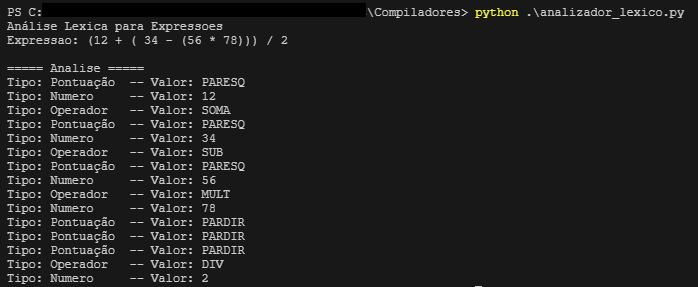
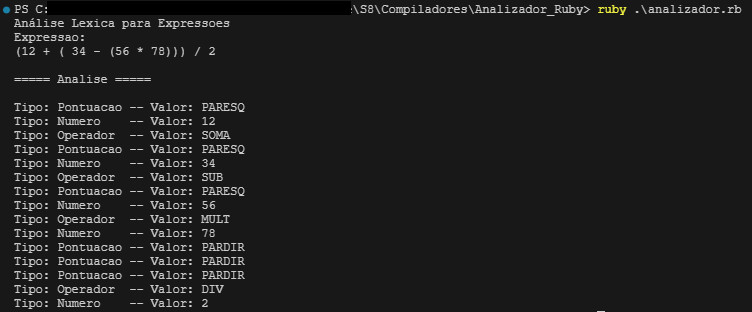
Correção de questão, linguagem Python -> Ruby

Changed region(s): [[0.0, 0.223, 0.361, 1.0], [0.0, 0.0, 0.4212, 0.1951], [0.4513, 0.0, 0.9928, 0.0557]]

diff --git a/analizador.rb b/analizador.rb
@@ -1,0 +1,176 @@
+# Analisador lexico para linguagem de expressoes aritmeticas
+
+# Crétitos autor original
+# Andrei de Araujo Formiga, 2014-07-25
+
+# Modificado por:
+# Equipe 04: trabalho computacional 03
+# Membros:
+# ------------------------------------------------------------------------
+# |          Nome                         |         GitHub               |
+# ------------------------------------------------------------------------
+# | Francisco Erineldo Xavier Filho       |     @erfilho                 |
+# | Francisco Alan do Nascimento Marinho  |     @alanmarinho             |
+# | Janiel de Oliveira Silva              |     @Janiel-Oliveira         |
+# | Rubens Lima Duarte                    |     @                        |
+# ------------------------------------------------------------------------
+# Ciencia da Computacao
+# IFCE - Campus Tianguá
+
+$codigo = ""
+$posicao = 0
+$tamanho = 0
+
+# constantes para valores de operadores
+$SOMA = 0
+$SUB = 1
+$MULT = 2
+$DIV = 3
+
+# constantes para tipo de token
+$TOK_NUM =0
+$TOK_OP = 1
+$TOK_PONT = 2
+
+# Operadores validos
+$operadores = "+-*/"
+
+# constantes para valores de pontuação (parenteses)
+$PARENTESE_DIREITA = 0
+$PARENTESE_ESQUERDA = 1
+
+# Estrutura de um token
+class Token
+  attr_accessor :tipo, :valor
+
+  def initialize(tipo, valor)
+    @tipo = tipo
+    @valor = valor
+  end
+end 
+
+# le um caractere do codigo e retorna o caractere ou -1 se o fim do codigo foi alcancado
+# incrementa a variavel posicao
+def le_caractere()
+  c = ''
+  if $posicao < $tamanho
+    c = $codigo[$posicao]
+    $posicao += 1
+  else
+    $posicao += 1
+  end
+  return c
+end
+
+#determina se um caractere eh um operador, e retorna o tipo se for, se nao retorna -1
+def define_operador(operador)
+  case operador
+  when "+"
+    return $SOMA
+  when "-"
+    return $SUB
+  when "*"
+    return $MULT
+  when "/"
+    return $DIV
+  else
+    return "NENHUM"
+  end
+end
+
+# inicializa a analise lexica do codigo em uma string (preeche as variaveis globais)
+def inicializa_analise(entrada)
+  $codigo = entrada
+  $tamanho = $codigo.length
+  $posicao = 0
+end
+
+# funcao que faz a analise lexica, retornando o proximo token
+def proximo_token(tok)
+  c = le_caractere()
+  valor = ''
+
+  # retorna nil se o fim do codigo foi alcancado
+  if $posicao > $tamanho
+    return nil
+  end
+  # ignora espacos em branco
+  while c == ' ' || c == '\t' || c == '\n'
+    c = le_caractere()
+  end
+  # Definir o tipo para numero, e concatenar os digitos de numeros grandes
+  if c.match(/\d+/)
+    while c.match(/\d+/)
+      valor += c
+      c = le_caractere()
+    end
+    $posicao -= 1
+    tok.tipo = $TOK_NUM
+    tok.valor = valor.to_i
+  # Definir o tipo para operador
+  elsif $operadores.include?(c)
+      tok.tipo = $TOK_OP
+      tok.valor = define_operador(c)
+  # Definir o tipo para pontuacao
+  elsif c == '(' || c == ')'
+      tok.tipo = $TOK_PONT
+      if c == '('
+        tok.valor = $PARENTESE_ESQUERDA
+      else
+        tok.valor = $PARENTESE_DIREITA
+      end
+  # Se nao for nenhum dos tipos validos, retorna nil
+  else
+    return nil
+  end
+  # retorna o token
+  return tok
+end
+
+# retorna o nome do operador
+def operador_string(operador)
+  case operador
+  when $SOMA
+    return "SOMA"
+  when $SUB
+    return "SUB"
+  when $MULT
+    return "MULT"
+  when $DIV
+    return "DIV"
+  else
+    return "NENHUM"
+  end
+end
+
+# imprime um token
+def imprime_token(tok)
+  print("Tipo: ");
+	
+  case tok.tipo
+  when $TOK_NUM
+    puts("Numero\t-- Valor: " + tok.valor.to_s);
+  when $TOK_OP
+    puts("Operador\t-- Valor: " + operador_string(tok.valor));
+  when $TOK_PONT
+    puts("Pontuacao\t-- Valor: " + (tok.valor == $PARENTESE_ESQUERDA ? "PARESQ" : "PARDIR"));
+  else
+    puts("Tipo de token desconhecido\n");
+  end
+end
+
+def main()
+  puts ("Análise Lexica para Expressoes")
+  puts ("Expressao: ")
+  entrada = gets.chomp
+  tok = Token.new(nil, nil)
+  
+  inicializa_analise(entrada)
+
+  print("\n===== Analise =====\n\n")
+  while proximo_token(tok) != nil 
+    imprime_token(tok)
+  end
+end
+
+main()

diff --git a/README.md b/README.md
@@ -1,7 +1,7 @@
 # Trabalho Computacional 03 Equipe 04 - Compiladores
 
 ## Descrição
-A atividade consiste em implementar um analisador léxico originalmente na linguagem C, na linguagem Python. O analisador léxico deve ser capaz de reconhecer os seguintes tokens:
+A atividade consiste em implementar um analisador léxico originalmente na linguagem C, na linguagem Ruby. O analisador léxico deve ser capaz de reconhecer os seguintes tokens:
 
 - Numeros: inteiros e reais [0-9]+
 - Operadores: +, -, *, /
@@ -11,8 +11,8 @@ A atividade consiste em implementar um analisador léxico originalmente na lingu
 ### Teste em C (Código Original)
 ![Teste em C (Código Original)](./images/img2.png)
 
-### Teste em Python (Código Modificado)
-![Teste em Python (Código Modificado)](./images/img1.png)
+### Teste em Ruby (Código Modificado)
+![Teste em Ruby (Código Modificado)](./images/img1.png)
 
 ## Integrantes
  
